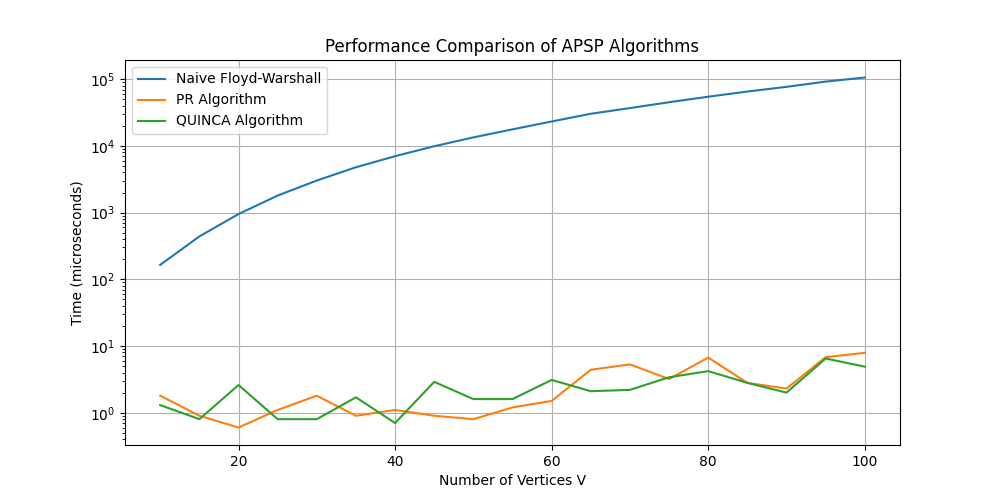
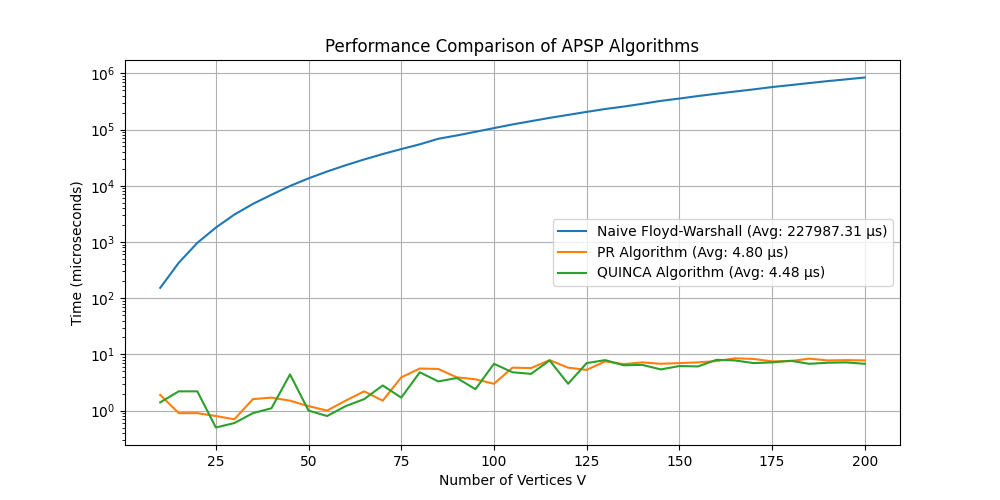
display average speed in plot.py and add comment in main.cpp

diff --git a/main.cpp b/main.cpp
@@ -66,6 +66,7 @@ tuple<int, int, double> pick_random_edge_for_update(const vector<vector<double>>
 
 
 // Function to run the Floyd-Warshall algorithm and return the distance matrix
+//O(V3)
 vector<vector<double>> floyd_warshall(const vector<vector<double>>& graph) {
     int V = graph.size();
     vector<vector<double>> distance = graph; // Start with the adjacency matrix as a base for the distance matrix
@@ -91,7 +92,7 @@ vector<vector<double>> floyd_warshall(const vector<vector<double>>& graph) {
     return distance;
 }
 
-
+//O(V3)
 vector<vector<double>> update_and_floyd_warshall(vector<vector<double>>& graph, int u, int v, double w) {
     // Update the graph with the new weight for the edge between u and v
     graph[u][v] = w;
@@ -100,7 +101,7 @@ vector<vector<double>> update_and_floyd_warshall(vector<vector<double>>& graph, 
     return floyd_warshall(graph);
 }
 
-
+//O(m)
 vector<int> find_affected_source(vector<vector<double>>& distance, int u, int v, double w) {
     int n = distance.size();
 
@@ -135,7 +136,7 @@ vector<int> find_affected_source(vector<vector<double>>& distance, int u, int v,
 
 
 // PR algorithm proposed by Ramalingam and Rep
-// time complexity O(V+E)
+// time complexity O(V^2), Θ(∣∣S(v)∣∣+∑∣∣T(x)∣∣).
 vector<vector<double>> incremental_apsp_pr(vector<vector<double>>& distance, int u, int v, double w) {
 
     vector<int> sources = find_affected_source(distance, u, v, w);
@@ -170,6 +171,7 @@ vector<vector<double>> incremental_apsp_pr(vector<vector<double>>& distance, int
 
 
 //QUINCA algorithm proposed by Slobbe, Bergamini, and Meyerhenke
+//O(V^2) Θ(∣∣S(v)∣∣+∣∣T(u)∣∣+∑∣S(P(y))∣)
 vector<vector<double>> incremental_apsp_quinca(vector<vector<double>>& distances, int u, int v, double w_prime) {
     int n = distances.size();
     vector<int> affected_sources = find_affected_source(distances, u, v, w_prime);
@@ -226,8 +228,8 @@ void printVector(const std::vector<int>& sources) {
 }
 
 int main() {
-    int V = 50;  // Number of vertices
-    int E = 25;  // Number of edges
+    int V = 500;  // Number of vertices
+    int E = 50;  // Number of edges
 
     vector<vector<double>> graph = generate_random_graph(V, E);
     auto [u, v, w] = pick_random_edge_for_update(graph);

diff --git a/Plot Incremental Algorithms/plot.py b/Plot Incremental Algorithms/plot.py
@@ -1,6 +1,12 @@
 from funcs import generate_random_graph, pick_random_edge_for_update, floyd_warshall, update_and_floyd_warshall, incremental_apsp_pr, incremental_apsp_quinca
 import time
 import matplotlib.pyplot as plt
+import random
+import numpy as np
+
+# Set the seed for reproducibility
+random.seed(42)
+np.random.seed(42)
 
 def measure_performance(V, E):
     graph = generate_random_graph(V, E)
@@ -29,7 +35,7 @@ def measure_performance(V, E):
     return duration_naive, duration_pr, duration_quinca
 
 def main():
-    V_range = range(10, 101, 5)  # Adjust range and step as needed
+    V_range = range(10, 201, 5)  # Adjust range and step as needed
     E = 10  # Example number of edges, adjust based on the graph density you want
     naive_times, pr_times, quinca_times = [], [], []
 
@@ -39,10 +45,14 @@ def main():
         pr_times.append(t_pr)
         quinca_times.append(t_quinca)
 
+    average_naive = sum(naive_times) / len(naive_times)
+    average_pr = sum(pr_times) / len(pr_times)
+    average_quinca = sum(quinca_times) / len(quinca_times)
+
     plt.figure(figsize=(10, 5))
-    plt.plot(V_range, naive_times, label='Naive Floyd-Warshall')
-    plt.plot(V_range, pr_times, label='PR Algorithm')
-    plt.plot(V_range, quinca_times, label='QUINCA Algorithm')
+    plt.plot(V_range, naive_times, label=f'Naive Floyd-Warshall (Avg: {average_naive:.2f} μs)')
+    plt.plot(V_range, pr_times, label=f'PR Algorithm (Avg: {average_pr:.2f} μs)')
+    plt.plot(V_range, quinca_times, label=f'QUINCA Algorithm (Avg: {average_quinca:.2f} μs)')
     plt.xlabel('Number of Vertices V')
     plt.ylabel('Time (microseconds)')
     plt.title('Performance Comparison of APSP Algorithms')
@@ -51,5 +61,6 @@ def main():
     plt.yscale('log')  # Set y-axis to logarithmic scale
     plt.savefig('performance_comparison.png')
     plt.show()
+
 if __name__ == "__main__":
     main()
